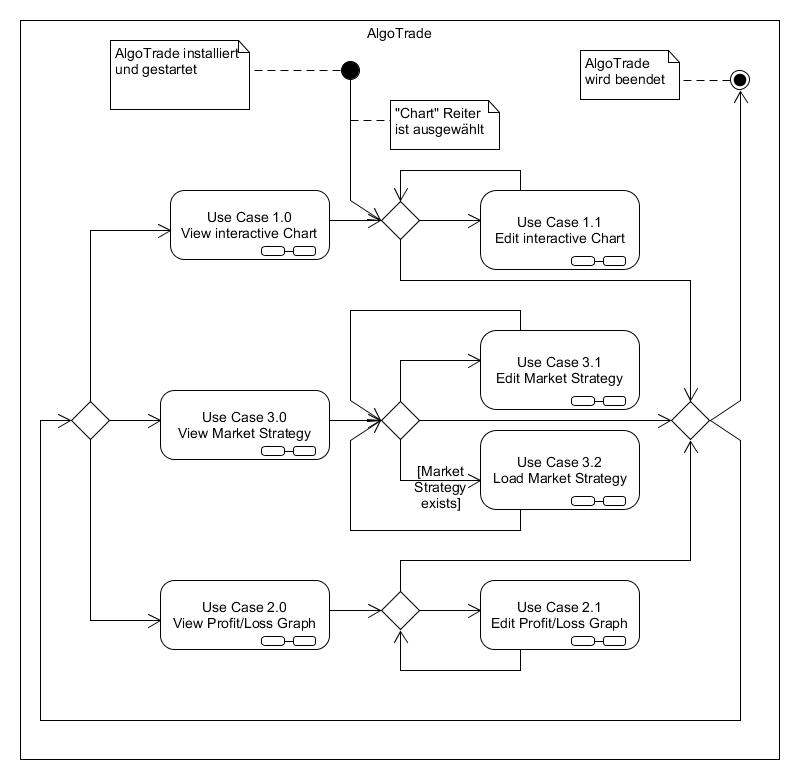
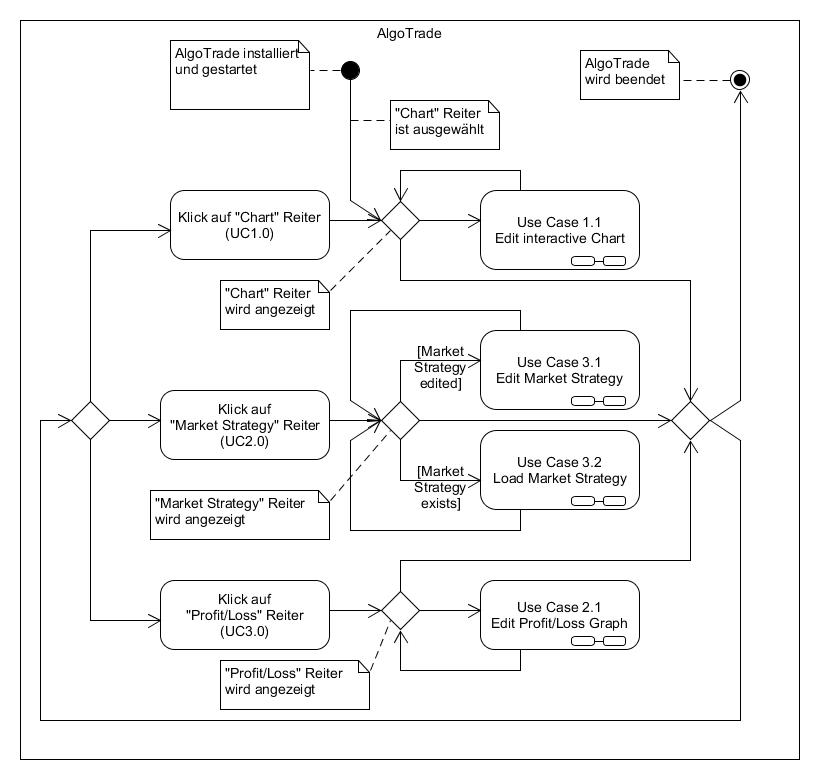
...

diff --git a/pflichtenheft.md b/pflichtenheft.md
@@ -18,14 +18,11 @@ Autoren: Sasha Koß, Kristoffer Roßbach
     - [Abgrenzung](#abgrenzung)
 - [2 Anforderungen](#2-anforderungen)
   - [2.1 Funktionale Anforderungen](#21-funktionale-anforderungen)
-    - [2.1.1 Use Case 1.0 - Show interactive Chart](#211-use-case-10---show-interactive-chart)
-    - [2.1.2 Use Case 1.1 - Edit Settings interactive Chart](#212-use-case-11---edit-settings-interactive-chart)
-    - [2.1.3 Use Case 2.0 - Show Profit/Loss Graph](#213-use-case-20---show-profitloss-graph)
-    - [2.1.4 Use Case 2.1 - Edit Settings Profit/Loss Graph](#214-use-case-21---edit-settings-profitloss-graph)
-    - [2.1.5 Use Case 3.0 - Show Market Strategy](#215-use-case-30---show-market-strategy)
-    - [2.1.6 Use Case 3.1 - Edit Settings Market Strategy](#216-use-case-31---edit-settings-market-strategy)
-    - [2.1.7 Use Case 3.1.1 - Save Market Strategy](#217-use-case-311---save-market-strategy)
-    - [2.1.8 Use Case 3.2 - Load Market Strategy](#218-use-case-32---load-market-strategy)
+    - [2.1.1 Use Case 1.1 - Edit Settings interactive Chart](#211-use-case-11---edit-settings-interactive-chart)
+    - [2.1.2 Use Case 2.1 - Edit Settings Profit/Loss Graph](#212-use-case-21---edit-settings-profitloss-graph)
+    - [2.1.3 Use Case 3.1 - Edit Settings Market Strategy](#213-use-case-31---edit-settings-market-strategy)
+    - [2.1.4 Use Case 3.1.1 - Save Market Strategy](#214-use-case-311---save-market-strategy)
+    - [2.1.5 Use Case 3.2 - Load Market Strategy](#215-use-case-32---load-market-strategy)
   - [2.2 Nicht-funktionale Anforderungen](#22-nicht-funktionale-anforderungen)
     - [2.2.1 Rahmenbedingungen](#221-rahmenbedingungen)
     - [2.2.2 Betriebsbedingungen](#222-betriebsbedingungen)
@@ -133,35 +130,23 @@ Die Software ist für Anwender konzipiert, die ein Grundverständnis von Marktte
 Use-Case Diagramm für AlgoTrade:
 <img src="pictures/UseCaseDiagram.jpg" height="100%" width="100%">
 
-### 2.1.1 Use Case 1.0 - Show interactive Chart
-Anzeigen des interaktiven Charts:
-<img src="pictures/UseCase1.0.jpg" height="100%" width="100%">
-
-### 2.1.2 Use Case 1.1 - Edit Settings interactive Chart
+### 2.1.1 Use Case 1.1 - Edit Settings interactive Chart
 Bearbeiten der Einstellungen fürs interaktive Chart.
 <img src="pictures/UseCase1.1.jpg" height="100%" width="100%">
 
-### 2.1.3 Use Case 2.0 - Show Profit/Loss Graph
-Anzeigen des Profit/Loss Graphen:
-<img src="pictures/UseCase2.0.jpg" height="100%" width="100%">
-
-### 2.1.4 Use Case 2.1 - Edit Settings Profit/Loss Graph
+### 2.1.2 Use Case 2.1 - Edit Settings Profit/Loss Graph
 Bearbeiten der Einstellungen des Profit/Loss Graphen:
 <img src="pictures/UseCase2.1.jpg" height="100%" width="100%">
 
-### 2.1.5 Use Case 3.0 - Show Market Strategy
-Anzeigen der Market Strategy:
-<img src="pictures/UseCase3.0.jpg" height="100%" width="100%">
-
-### 2.1.6 Use Case 3.1 - Edit Settings Market Strategy
+### 2.1.3 Use Case 3.1 - Edit Settings Market Strategy
 Bearbeiten der Market Strategy:
 <img src="pictures/UseCase3.1.jpg" height="100%" width="100%">
 
-### 2.1.7 Use Case 3.1.1 - Save Market Strategy
+### 2.1.4 Use Case 3.1.1 - Save Market Strategy
 Speichern der Market Strategy:
 <img src="pictures/UseCase3.1.1.jpg" height="100%" width="100%">
 
-### 2.1.8 Use Case 3.2 - Load Market Strategy
+### 2.1.5 Use Case 3.2 - Load Market Strategy
 Laden der Market Strategy:
 <img src="pictures/UseCase3.2.jpg" height="100%" width="100%">
 
